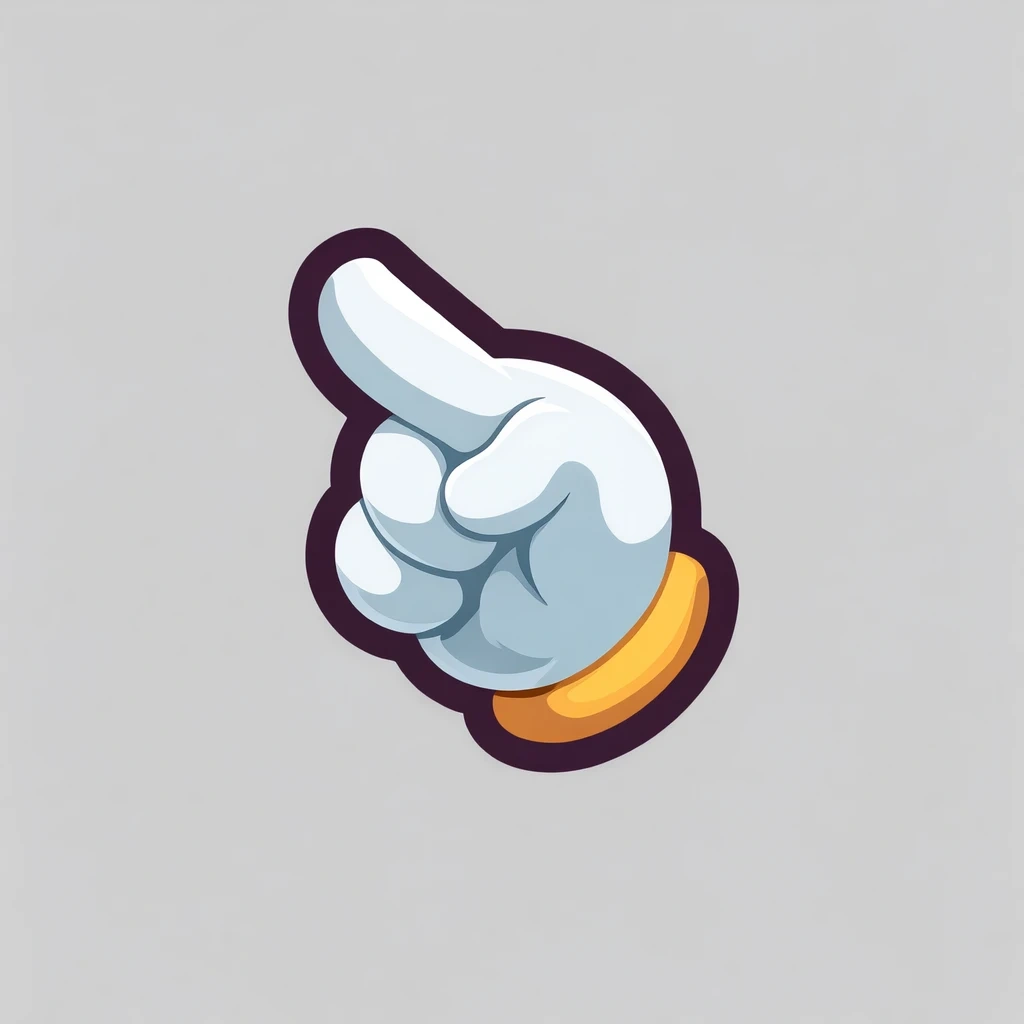
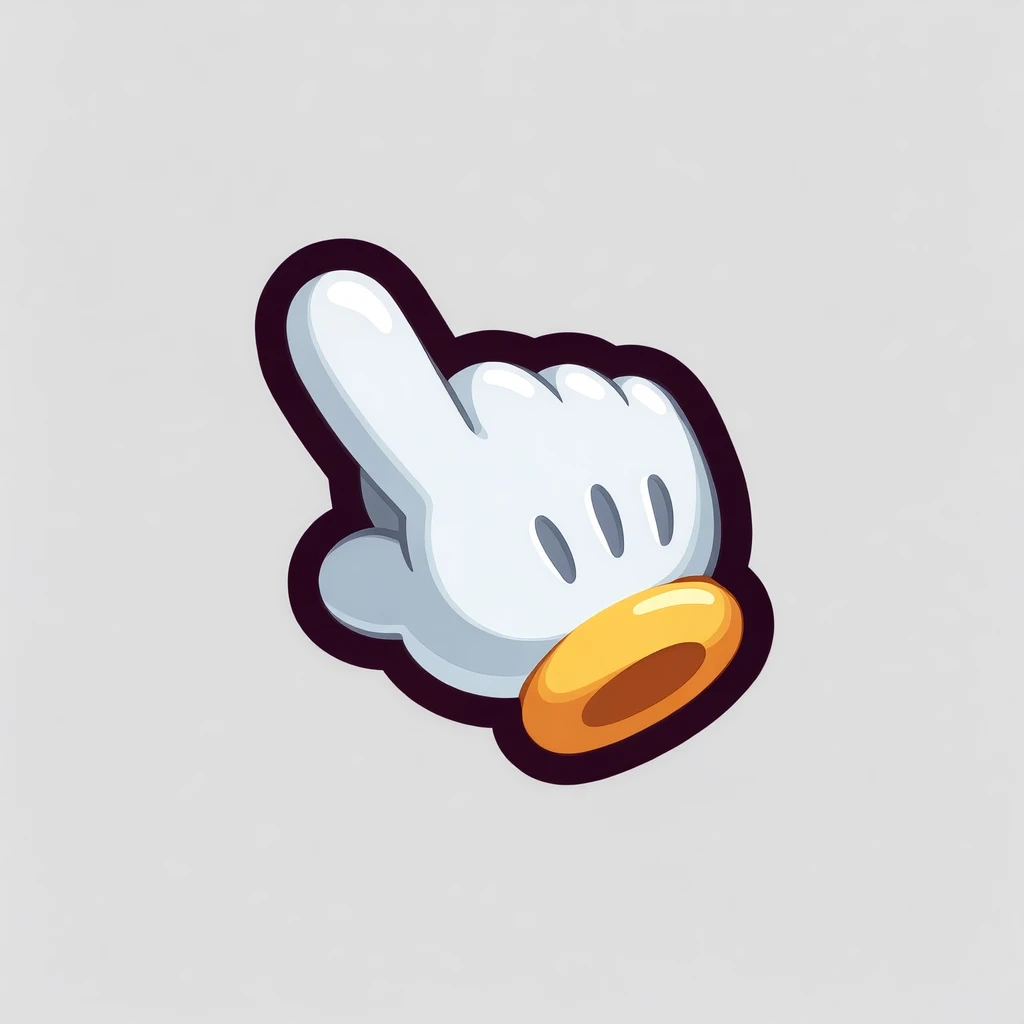
Pointing glove seen from the back of the hand
New file name (hand2.png) so devices fetch it; its fingertip lands on the
spot as before.

Claude-Session: https://claude.ai/code/session_01897nNPNNgbcBnjh2hA5vTu

Changed region(s): [[0.25, 0.2188, 0.7812, 0.7812]]

diff --git a/index.html b/index.html
@@ -1054,11 +1054,11 @@
         /* Tapped somewhere else: the hand and bubble wiggle. */
         #tutorial.nudge .tut-bubble, #tutorial.nudge .tut-hand > span, #tutorial.nudge .tut-hand > img { animation: nudge 0.4s ease-in-out; }
         /* The glove picture, once drawn: its fingertip (top left) on the spot. */
-        .tut-hand:has(img) { transform: translate(-17%, -9%); }
+        .tut-hand:has(img) { transform: translate(-13%, -9%); }
         .tut-hand > img { display: block; width: 16cqw; }
         /* A ring spreading from the fingertip with each tap. */
         .tut-ripple { position: absolute; left: 30%; top: 8%; width: 9cqw; height: 9cqw; margin: -4.5cqw 0 0 -4.5cqw; border: 0.8cqw solid #fff; border-radius: 50%; opacity: 0; pointer-events: none; animation: ripple 1s ease-out infinite; animation-delay: 0.45s; }
-        .tut-hand:has(img) .tut-ripple { left: 17%; top: 9%; }
+        .tut-hand:has(img) .tut-ripple { left: 13%; top: 9%; }
         .tut-hand.dragging .tut-ripple, .tut-hand.flying .tut-ripple { display: none; }
         @keyframes ripple { 0% { opacity: 0.9; transform: scale(0.3); } 100% { opacity: 0; transform: scale(1.6); } }
         @keyframes nudge { 20%, 60% { translate: -1.2cqw 0; } 40%, 80% { translate: 1.2cqw 0; } }
@@ -1796,7 +1796,7 @@
         <div id="toasts" aria-live="polite"></div>
     </main>
 
-    <script src="assets.js?v=202610141040"></script>
-    <script src="game.js?v=202610141040"></script>
+    <script src="assets.js?v=202610141044"></script>
+    <script src="game.js?v=202610141044"></script>
 </body>
 </html>

diff --git a/assets.js b/assets.js
@@ -309,7 +309,7 @@ const ASSETS = {
         check: 'assets/ui/check.png',
         sparkle: 'assets/ui/sparkle.png',
         hammer: 'assets/ui/hammer.png',    // job tags and the fix
-        hand: 'assets/ui/hand.png',        // the tutorial's pointing glove (fingertip at its top left)
+        hand: 'assets/ui/hand2.png',       // the tutorial's pointing glove, back of the hand (fingertip at its top left)
     },
 
     // Optional background image behind each merge board (null = CSS colour).

diff --git a/ASSET_LIST.md b/ASSET_LIST.md
@@ -418,7 +418,7 @@ missing shows its emoji.
 | ✅ | 🔨 hammer | job tags on the map and job cards | `assets/ui/hammer.png` |
 | ⬜ | 🏆 trophy | Country Fair ribbon, header and race | `assets/ui/trophy.png` |
 | ⬜ | 📺 TV with a play button | "Watch an ad" buttons | `assets/ui/ad.png` |
-| ✅ | 👆 pointing glove (white cartoon glove, index finger out) | the tutorial and guides: points at what to tap | `assets/ui/hand.png` |
+| ✅ | 👆 pointing glove (white cartoon glove, index finger out) | the tutorial and guides: points at what to tap | `assets/ui/hand2.png` |
 | ⬜ | 🧩 part | producer parts in reward texts | not wired yet (needs a small code change) |
 
 ## 12a. Painted pages (the new look)
